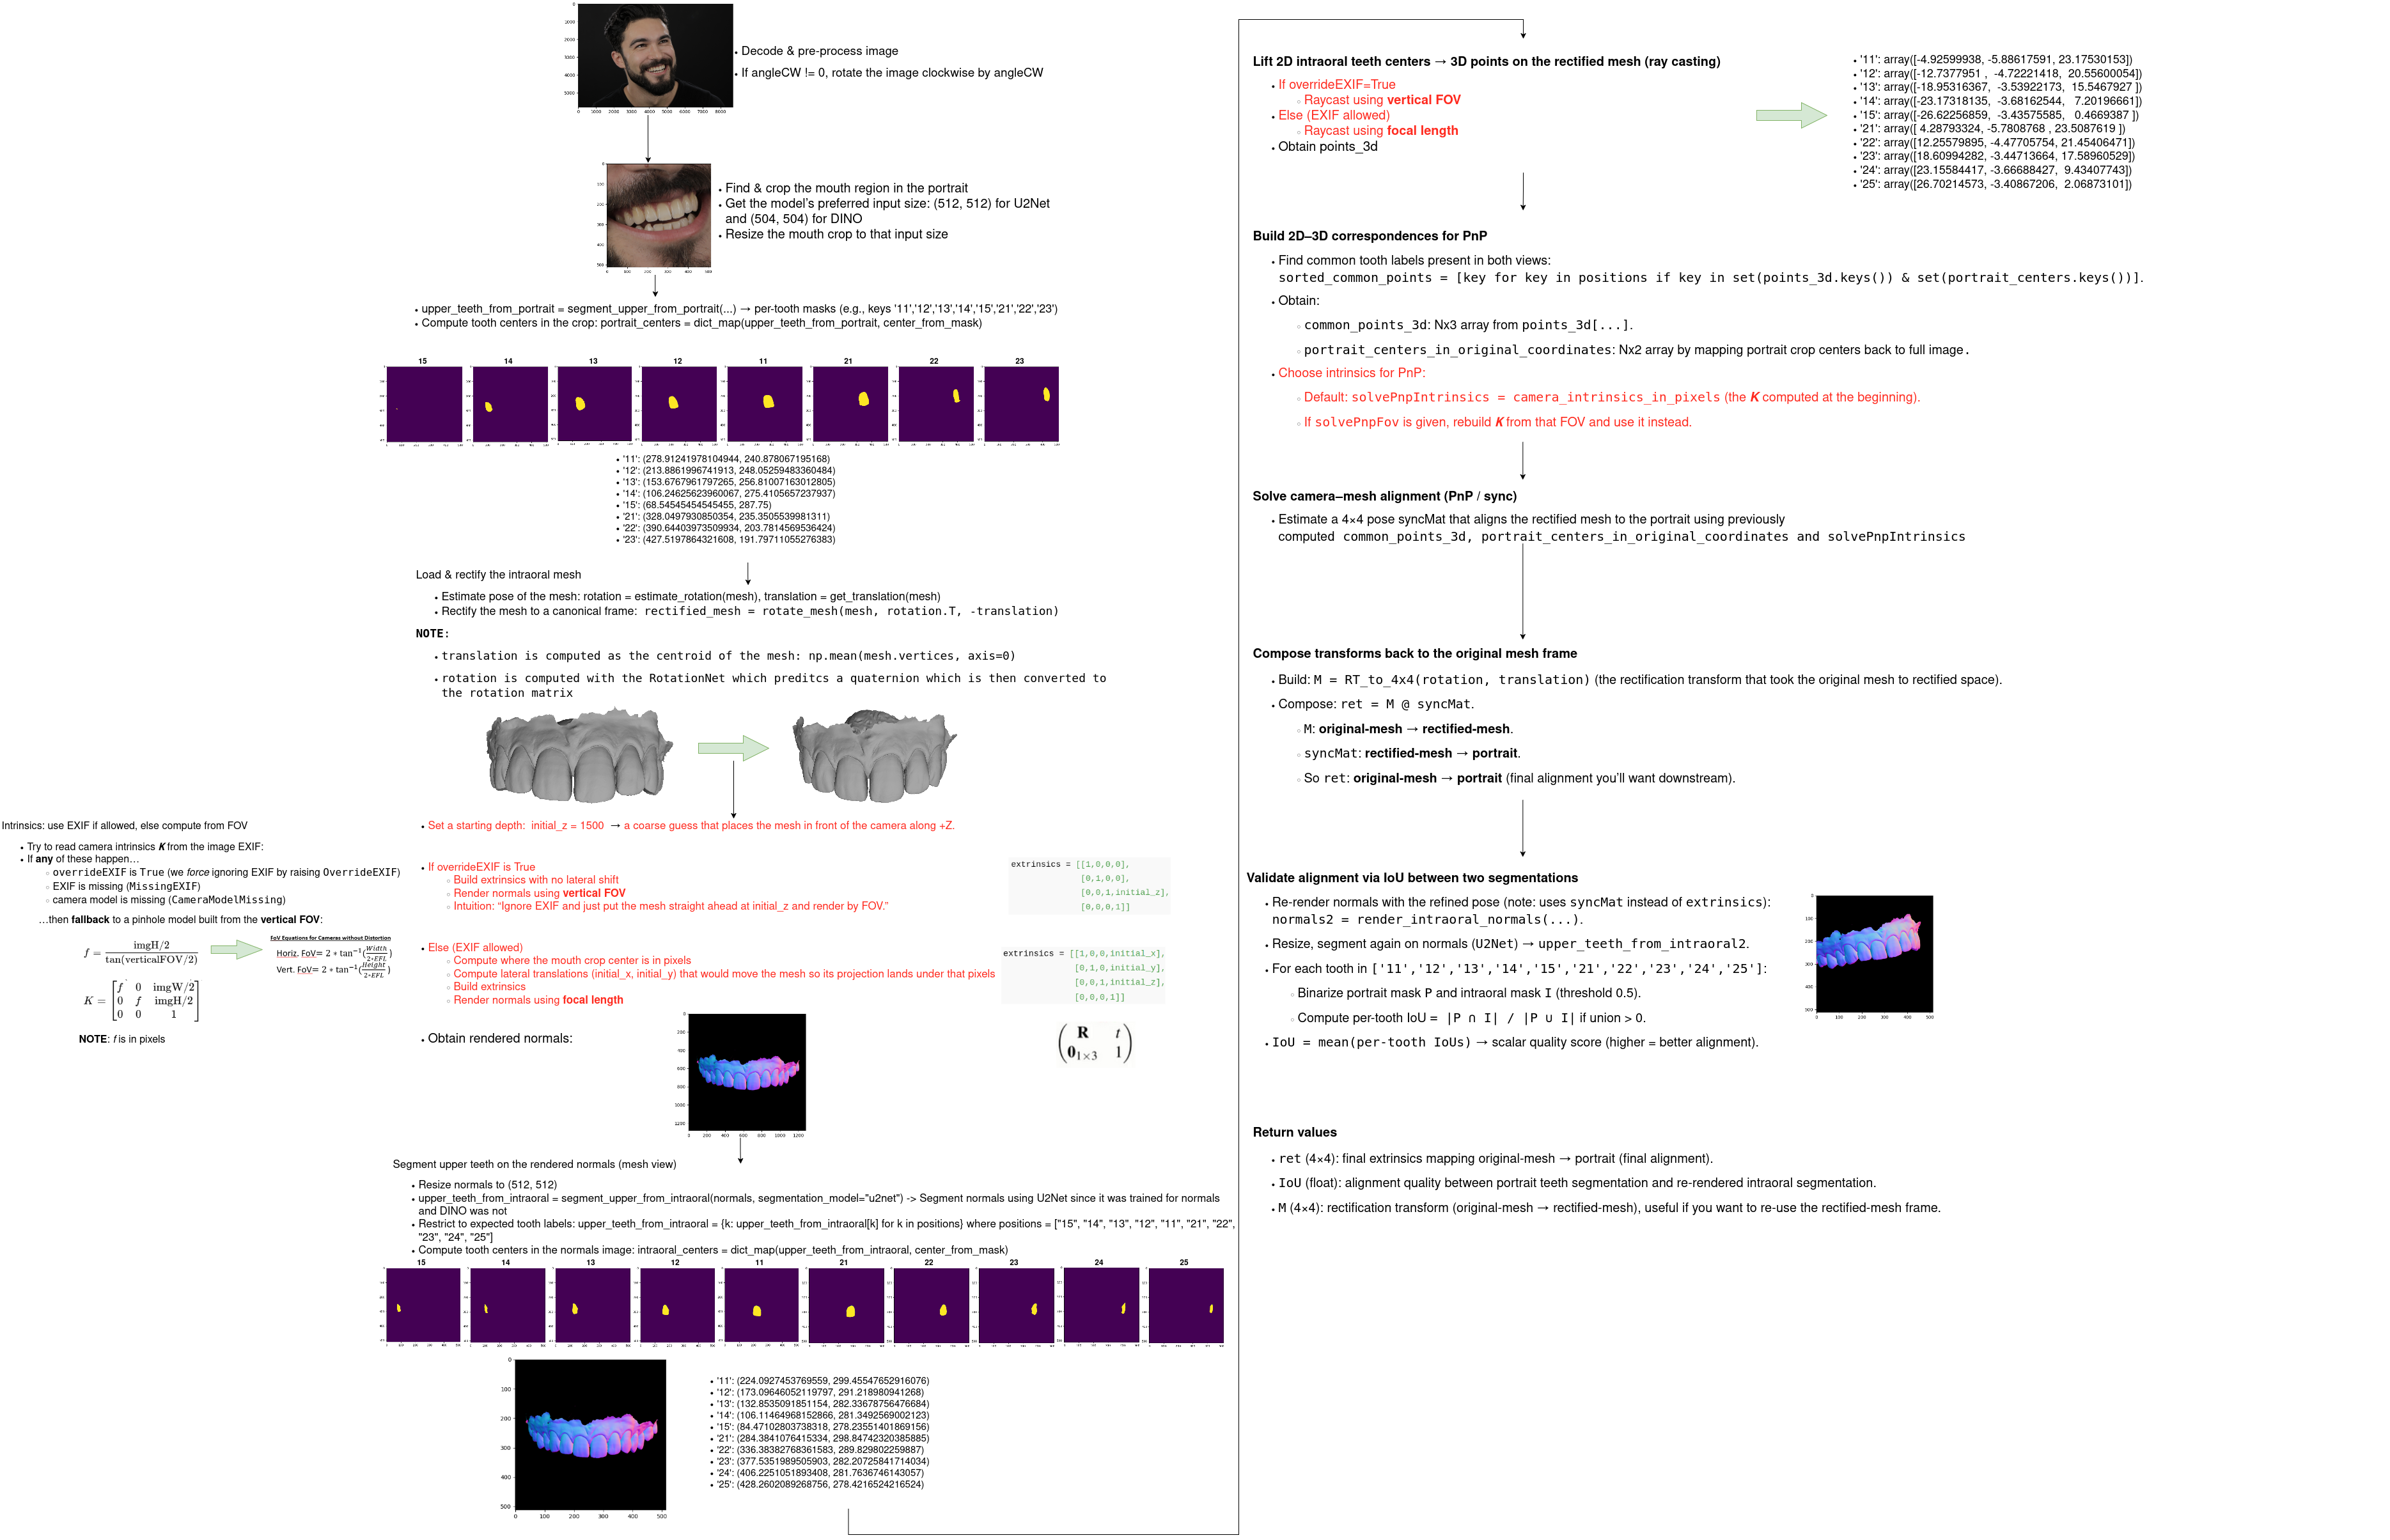
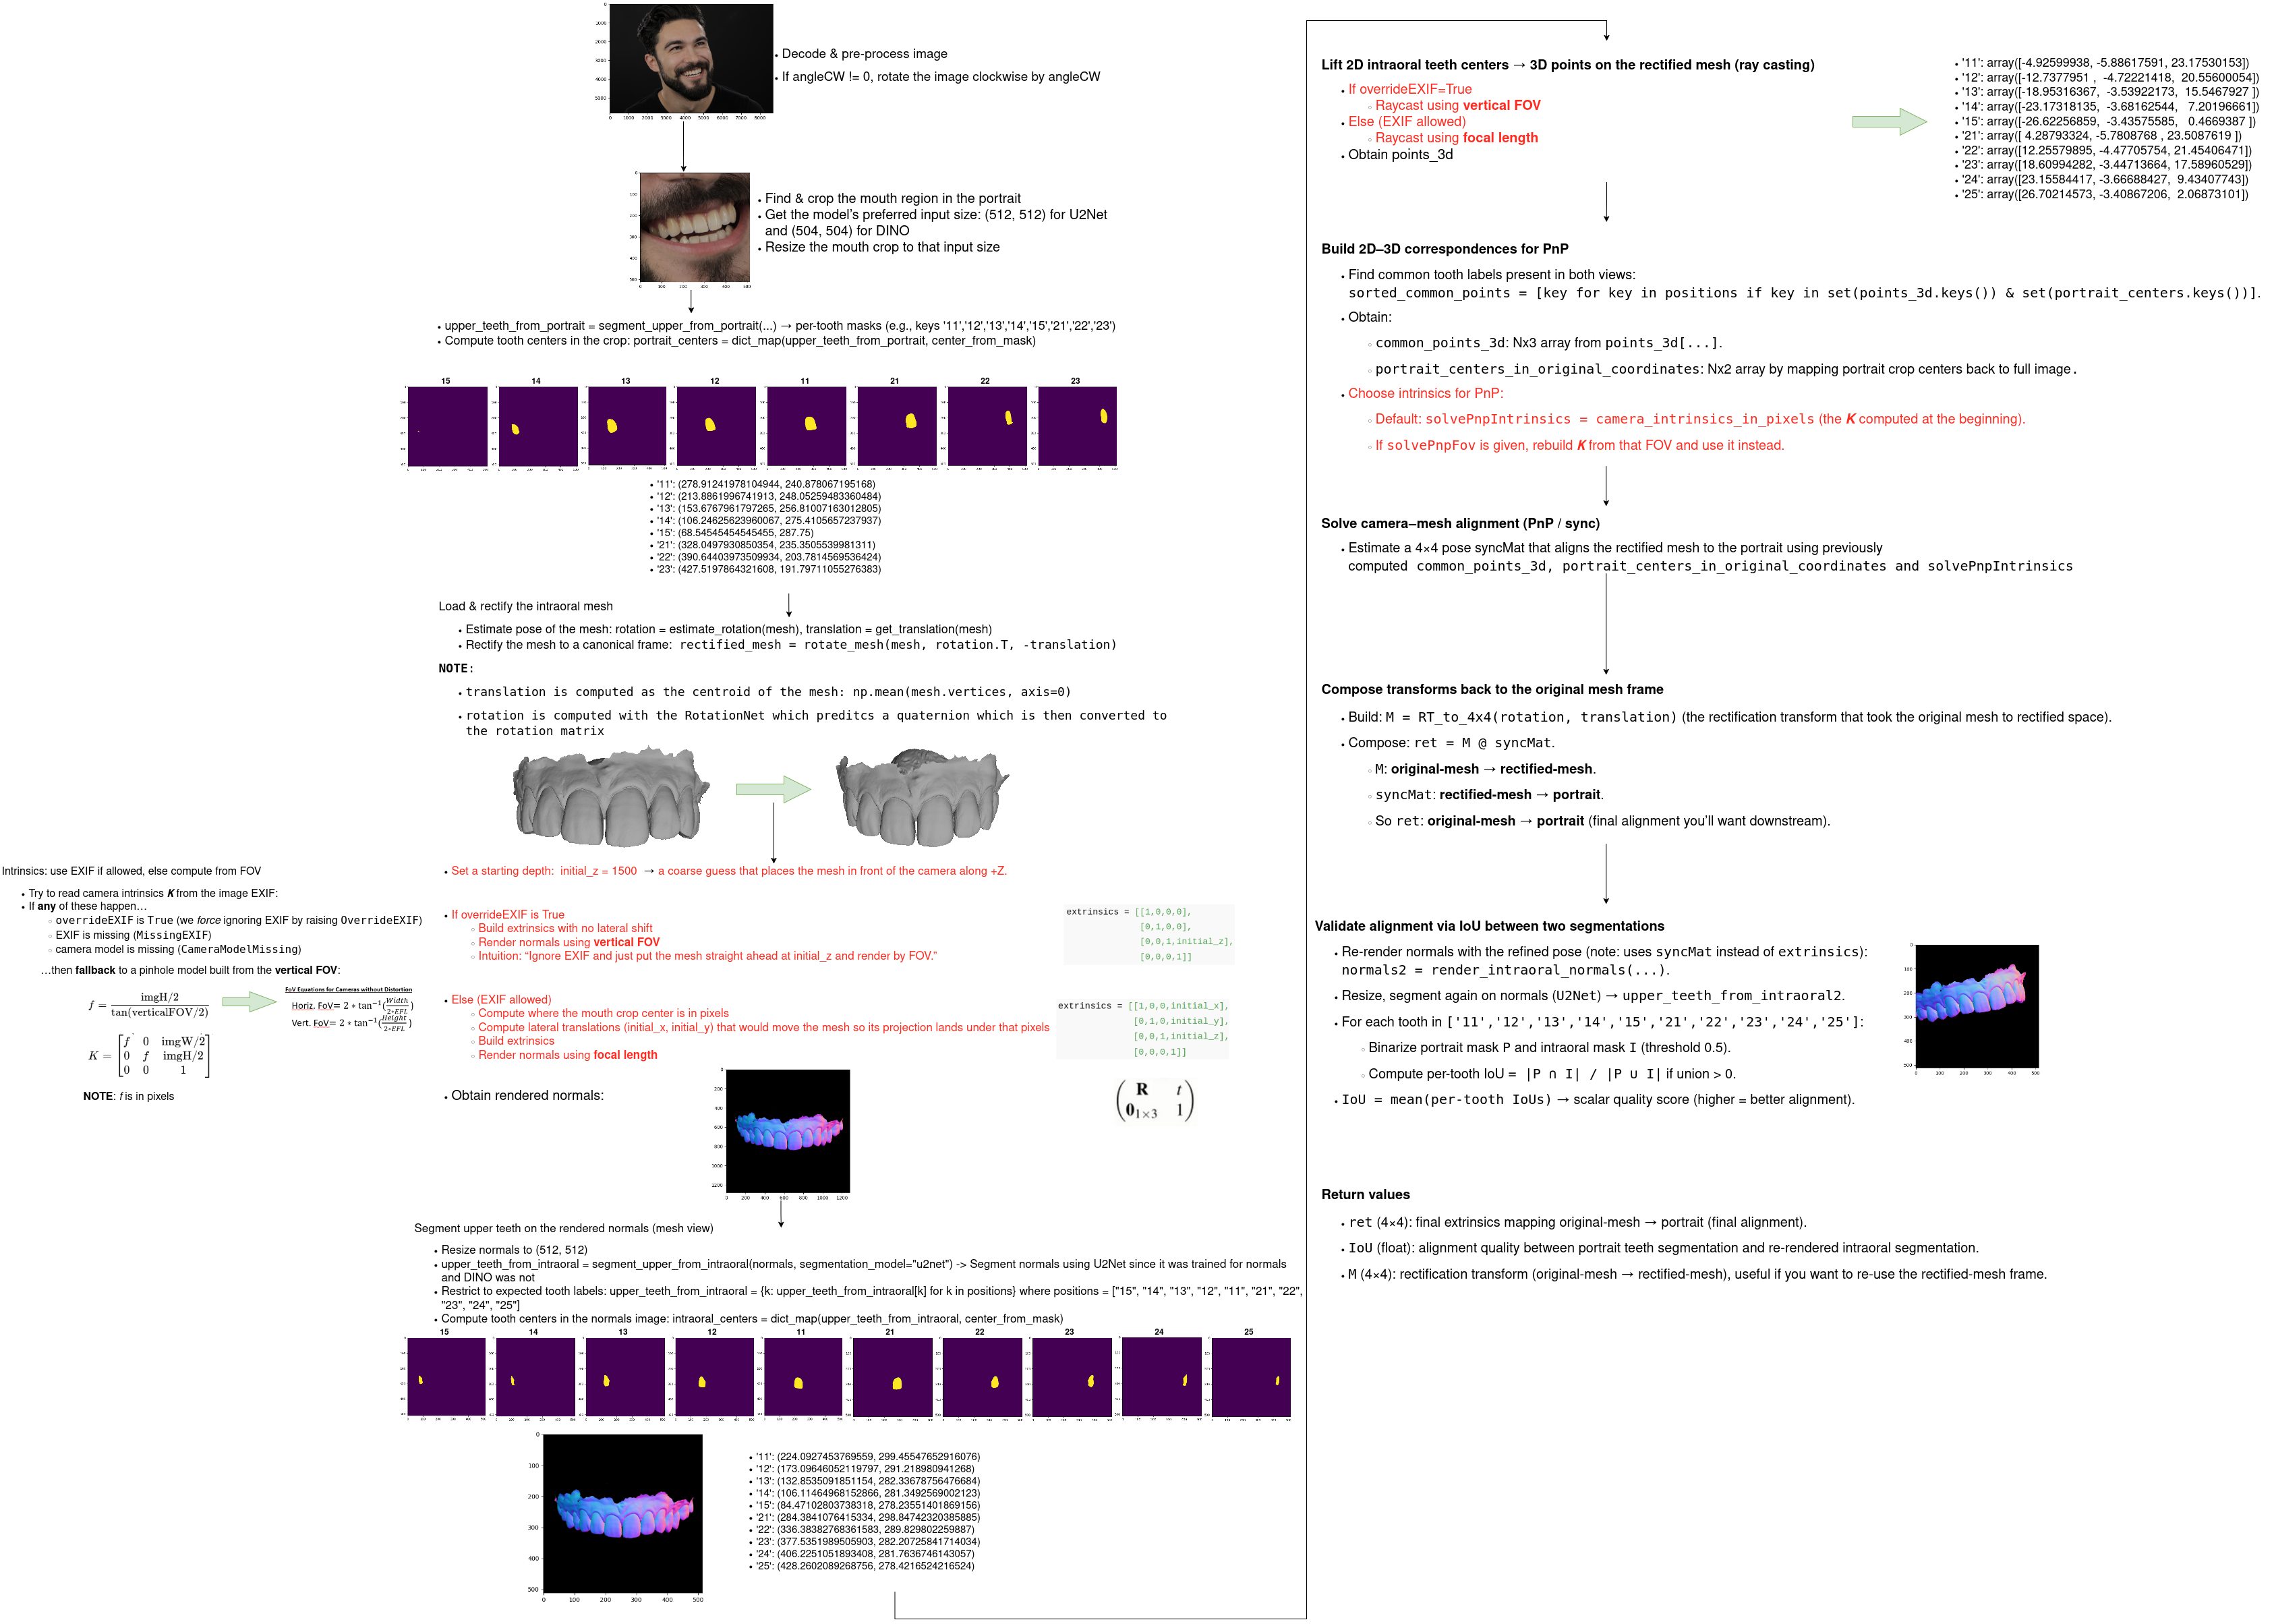
some details modified

diff --git a/src/components/Publications.tsx b/src/components/Publications.tsx
@@ -7,9 +7,9 @@ interface PublicationsProps {
 }
 
 const filterOptions: Array<{ label: string; value: PublicationItem['filter'] }> = [
-  { label: 'Research', value: 'research' },
-  { label: 'Problems', value: 'problems' },
-  { label: 'Articles', value: 'articles' },
+  { label: 'Research Papers', value: 'research' },
+  { label: 'Mathematical Problems', value: 'problems' },
+  { label: 'Media Coverage', value: 'articles' },
 ];
 
 function Publications({ items }: PublicationsProps): JSX.Element {
@@ -23,7 +23,7 @@ function Publications({ items }: PublicationsProps): JSX.Element {
     <section id="publications" className="scroll-mt-24 mb-12 md:mb-16">
       <div className="mb-5 flex items-center gap-4">
         <Typography component="h2" className="!text-3xl !font-semibold !text-slate-50">
-          Publications / Articles
+          Publications
         </Typography>
         <div className="h-px flex-1 bg-gradient-to-r from-cyan-800/70 to-transparent" />
       </div>

diff --git a/data/portfolioContent.ts b/data/portfolioContent.ts
@@ -176,7 +176,7 @@ export const publications: PublicationItem[] = [
   },
   {
     filter: "problems",
-    venue: "-",
+    venue: "Gazeta Matematică din București",
     title:
       '2 problems published in "Gazeta Matematică din București", number 6-7-8/2015, problem 27085-page 367 and problem 27108-page 370',
     authors: "I. Grigore",
@@ -184,9 +184,9 @@ export const publications: PublicationItem[] = [
   },
   {
     filter: "problems",
-    venue: "-",
+    venue: "Romanian Mathematical Competitions (RMC 2016)",
     title:
-      'A problem for lot selection at Junior Balkan Mathematical Olympiad-2016 published in "ROMANIAN MATHEMATICAL COMPETITIONS-RMC 2016", problem 7, page 72',
+      'A problem for lot selection at Junior Balkan Mathematical Olympiad-2016 published in "Romanian Mathematical Competitions (RMC 2016)", problem 7, page 72',
     authors: "I. Grigore",
     link: "https://pregatirematematicaolimpiadejuniori.files.wordpress.com/2016/07/2016_tests-1234.pdf",
   },